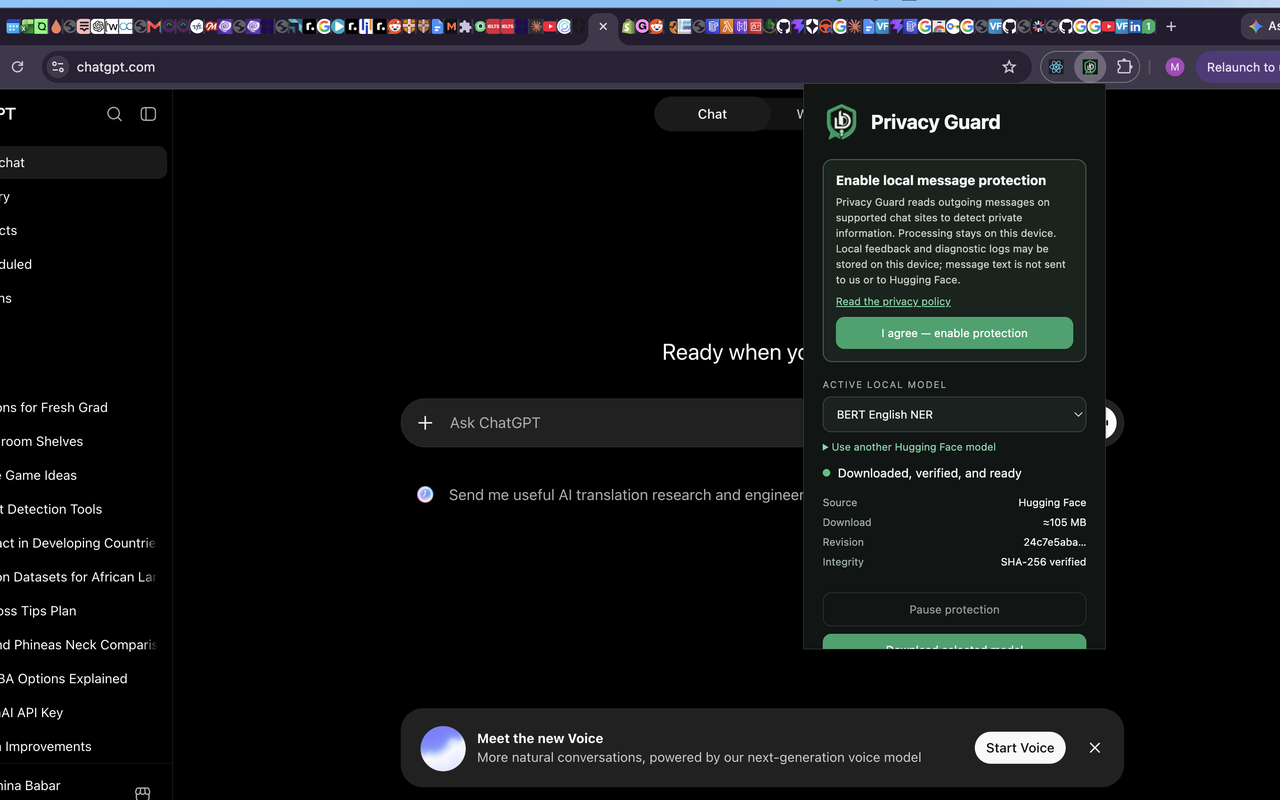
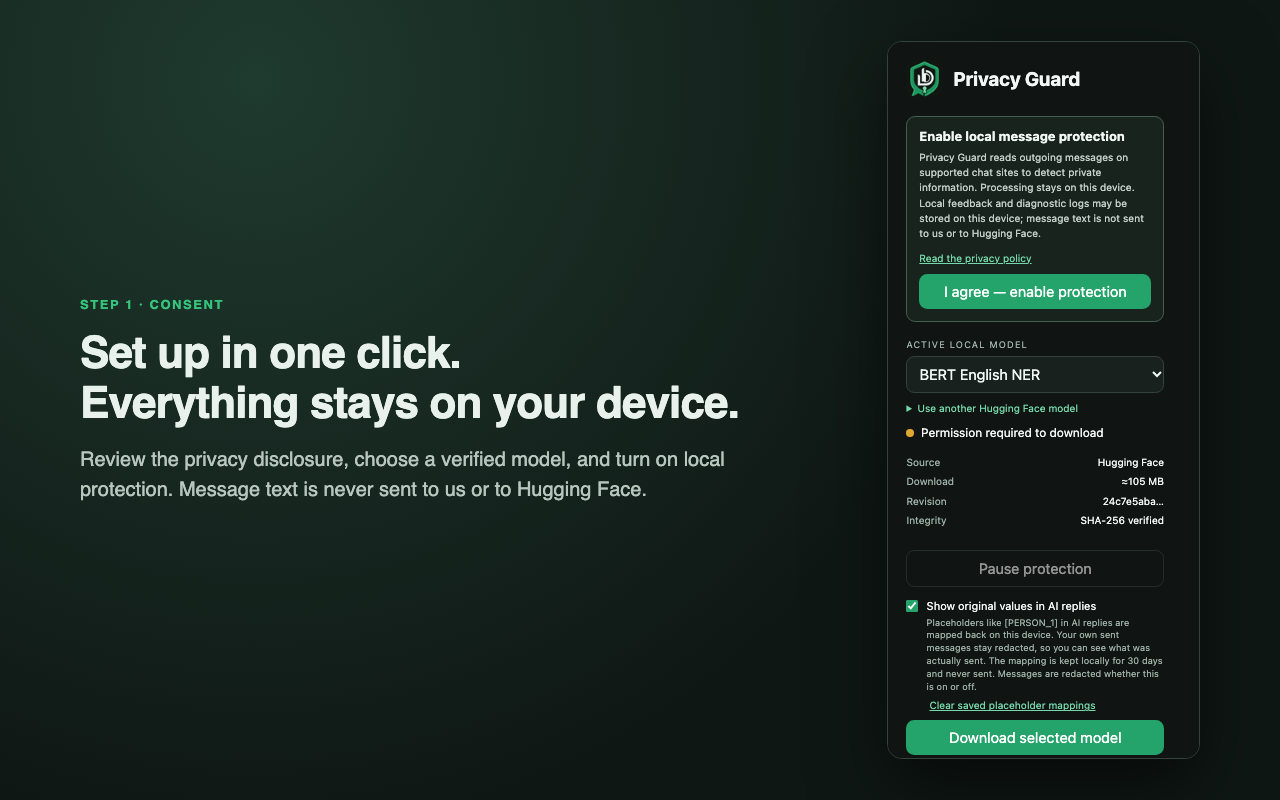
add new screenshots

diff --git a/detection-rules.js b/detection-rules.js
@@ -64,7 +64,7 @@ export function isLikelyPhone(value, text, start) {
 }
 
 function phoneFindings(text) {
-  return [...text.matchAll(/(?<![\w.+])\+?\(?\d[\d ().-]{5,}\d(?![\w.])/g)]
+  return [...text.matchAll(/(?<![\w.+])\+?\(?\d[\d ().-]{5,}\d(?!\w|\.\d)/g)]
     .map((match) => ({ value: match[0].trimEnd(), index: match.index }))
     .filter(({ value, index }) => isLikelyPhone(value, text, index))
     .map(({ value, index }) => finding("PHONE", value, index));
@@ -125,7 +125,7 @@ export function isValidIpv4(value) {
 }
 
 function ipFindings(text) {
-  return [...text.matchAll(/(?<![\w.])(?:\d{1,3}\.){3}\d{1,3}(?![\w.])/g)]
+  return [...text.matchAll(/(?<![\w.])(?:\d{1,3}\.){3}\d{1,3}(?!\w|\.\w)/g)]
     .filter((match) =>
       isValidIpv4(match[0]) &&
       !NON_IDENTIFYING_IPS.has(match[0]) &&
@@ -263,6 +263,26 @@ export function isOrdinaryWord(word, isSingleToken) {
   });
 }
 
+const COMPANY_SUFFIX = new Set(["inc", "corp", "ltd", "co", "llc", "plc", "gmbh", "sa", "ag", "bv", "nv", "pty", "pvt"]);
+
+/** "Initech Corp. You" -> "Initech Corp."; "Acme. Then" -> "Acme". */
+export function trimEmployer(value) {
+  const words = value.split(/\s+/);
+  const kept = [];
+  for (const word of words) {
+    if (!word.endsWith(".") || /\.[^.]/.test(word)) { kept.push(word); continue; }
+    const bare = word.slice(0, -1);
+    kept.push(COMPANY_SUFFIX.has(bare.toLowerCase()) ? word : bare);
+    break;
+  }
+  return kept.join(" ");
+}
+
+function employerFinding(match) {
+  const trimmed = trimEmployer(match[1]);
+  return finding("ORGANIZATION", trimmed, match.index + match[0].lastIndexOf(match[1]));
+}
+
 function contextualFindings(text, { isSingleToken } = {}) {
   const names = CONTEXTUAL_PATTERNS.flatMap(([type, regex]) =>
     [...text.matchAll(regex)]
@@ -271,7 +291,7 @@ function contextualFindings(text, { isSingleToken } = {}) {
   );
   const employers = [...text.matchAll(CAPITALIZED_EMPLOYER)]
     .filter((match) => !NOT_A_NAME.has(match[1].split(/\s+/)[0].toLowerCase()))
-    .map((match) => groupFinding("ORGANIZATION", match));
+    .map(employerFinding);
   // "working for unicef": without a vocabulary to separate it from "working
   // for hours", lowercase employers are skipped rather than guessed.
   const lowercaseEmployers = isSingleToken

diff --git a/test/detection-rules.test.js b/test/detection-rules.test.js
@@ -48,6 +48,20 @@ test("phone numbers need phone formatting, an international prefix, or context",
   assert.deepEqual(found("(555) 123-4567"), [["PHONE", "(555) 123-4567"]]);
 });
 
+test("identifiers at the end of a sentence are still detected", () => {
+  assert.deepEqual(found("Call me on (415) 555-2938. Thanks"), [["PHONE", "(415) 555-2938"]]);
+  assert.deepEqual(found("My number is +92 300 1234567."), [["PHONE", "+92 300 1234567"]]);
+  assert.deepEqual(found("The host is 10.0.0.25."), [["IP_ADDRESS", "10.0.0.25"]]);
+  assert.deepEqual(found("Version 1.2.3.4.5 shipped."), []);
+});
+
+test("employer names stop at the end of the sentence", () => {
+  assert.deepEqual(found("I work at Initech Corp. You can reach me"), [["ORGANIZATION", "Initech Corp."]]);
+  assert.deepEqual(found("I work at Acme Corp and love it"), [["ORGANIZATION", "Acme Corp"]]);
+  assert.deepEqual(found("She works at Oxfam. Then she left"), [["ORGANIZATION", "Oxfam"]]);
+  assert.deepEqual(found("I work for Johnson & Johnson. Great"), [["ORGANIZATION", "Johnson & Johnson"]]);
+});
+
 test("IPv4 detection rejects octets above 255", () => {
   assert.equal(isValidIpv4("192.168.1.20"), true);
   assert.equal(isValidIpv4("999.1.2.3"), false);
